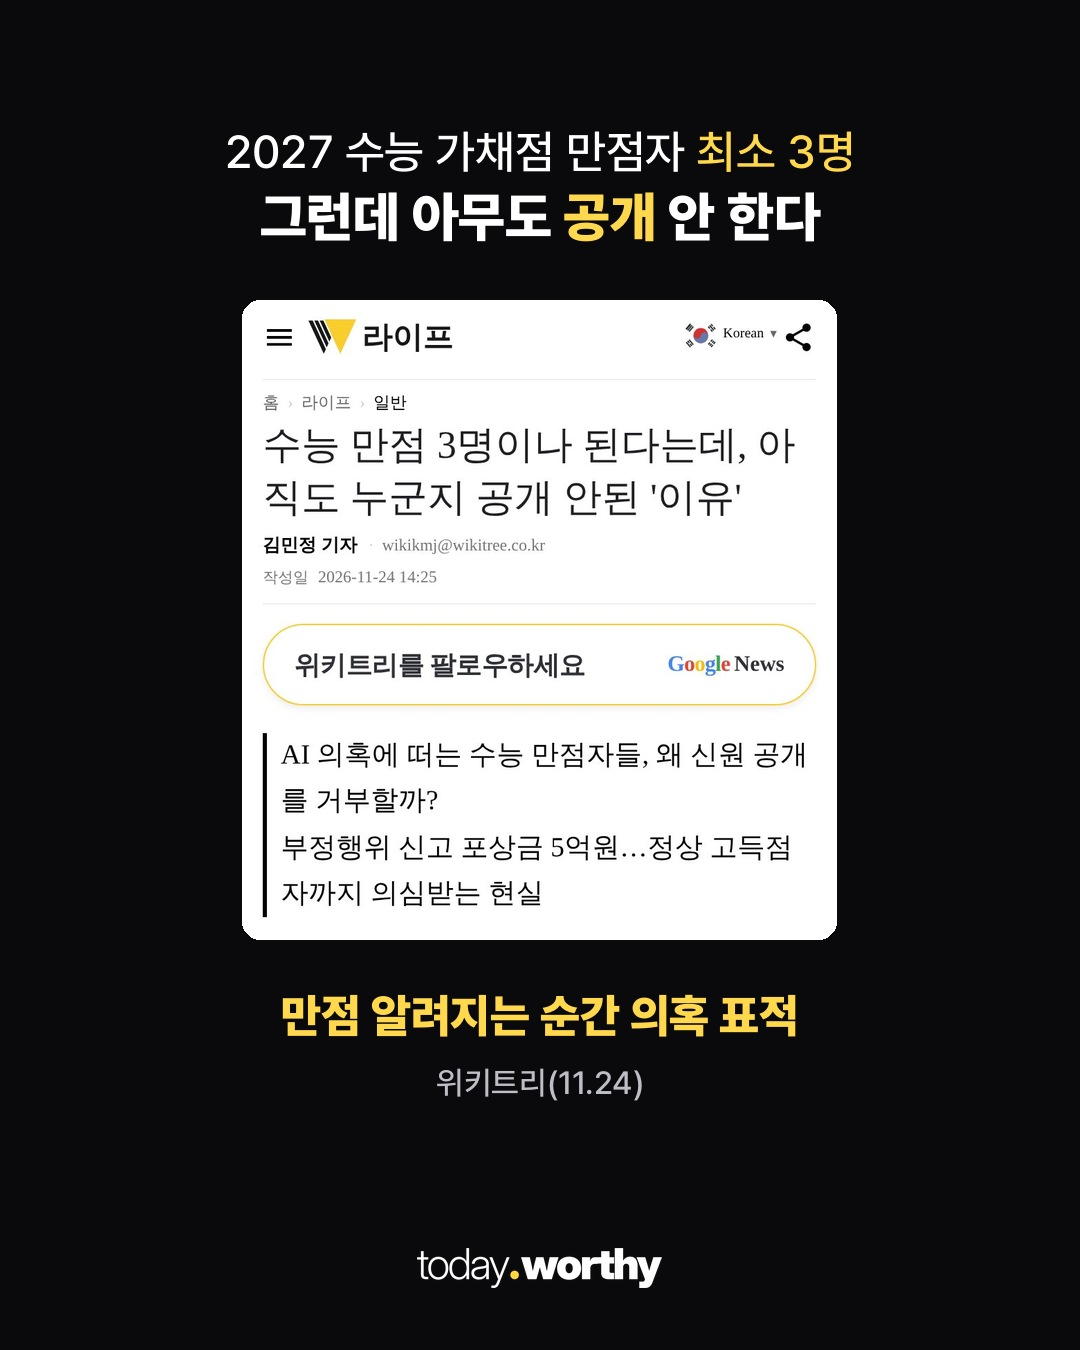
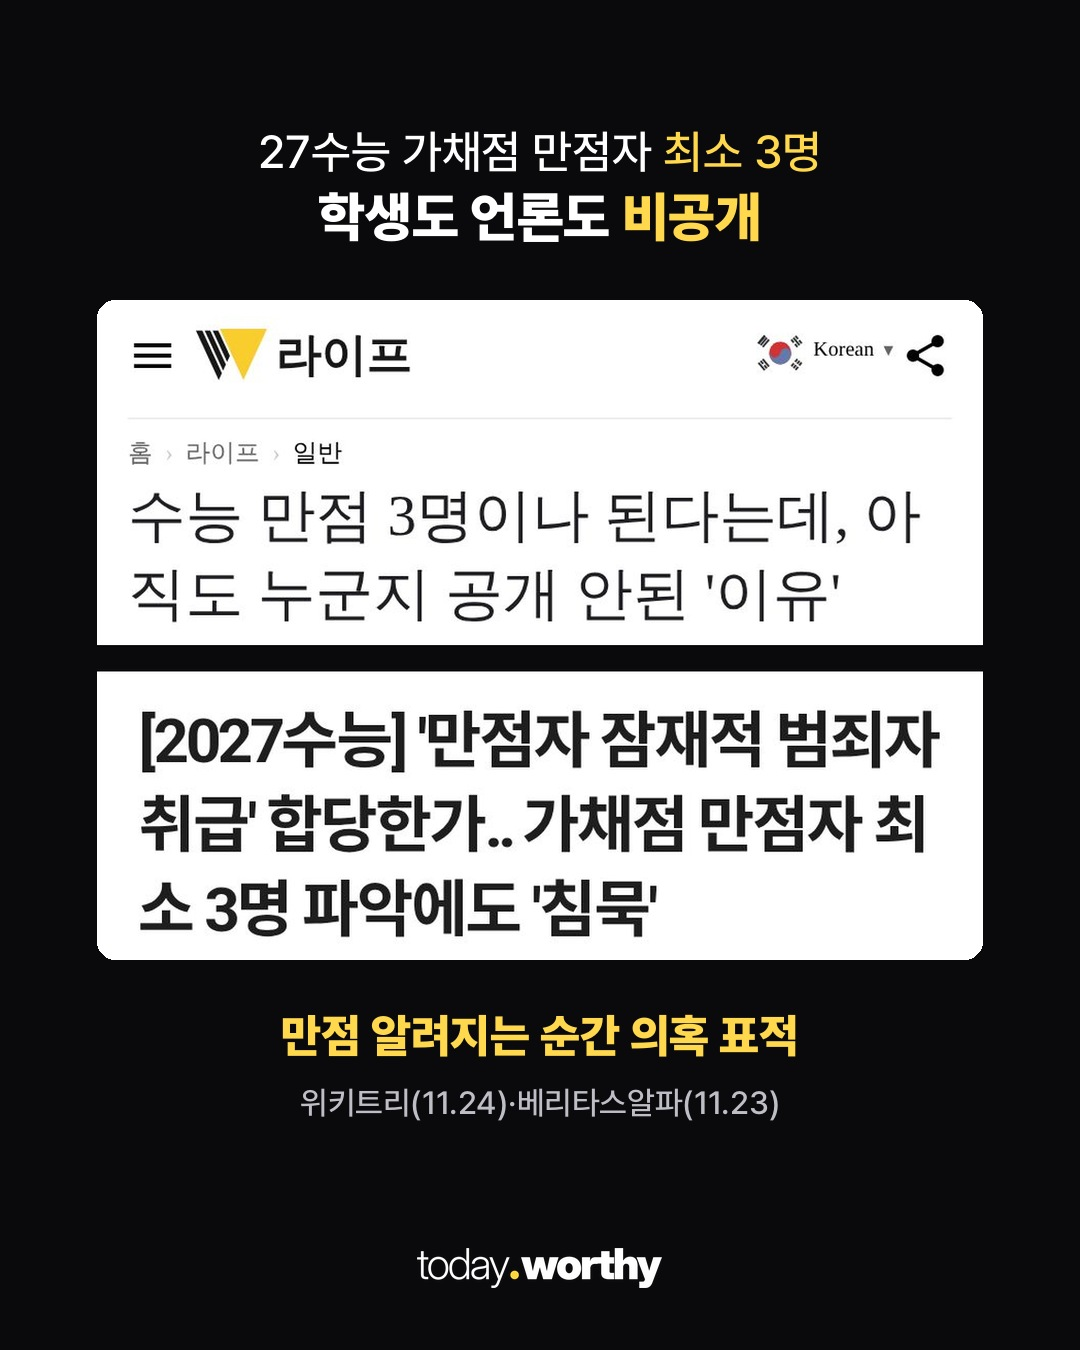
manual: 수능 만점자 본문 캡처 정리·합침(렌더만)

Changed region(s): [[0.0917, 0.2178, 0.9167, 0.84], [0.2139, 0.0933, 0.7944, 0.1867], [0.6417, 0.2178, 0.6722, 0.28]]

diff --git a/media/20261125-mjhide/build_cards.py b/media/20261125-mjhide/build_cards.py
@@ -67,10 +67,13 @@ def panel(rows, h=640, gap=None):
 
 def cap(src, box, h):
     im = op(src).crop(box); return im.resize((round(im.width * h / im.height), h), Image.LANCZOS) if im.width * h / im.height <= 940 else im.resize((940, round(im.height * 940 / im.width)), Image.LANCZOS)
-frame(("2027 수능 가채점 만점자 '최소 3명'", "그런데 아무도 '공개' 안 한다"), cap("wiki.jpg", (0, 0, 860, 925), 640),
-      "만점 알려지는 순간 '의혹' 표적", "위키트리(11.24)").save(O / "c02.jpg", quality=93)
-frame(("입시 매체도 올해는 '비공개'", "\"만점자 '잠재적 범죄자' 취급\""), cap("veritas.jpg", (0, 460, 860, 1000), 540),
-      "매년 하던 '출신고·인터뷰' 보도 중단", "베리타스알파(11.23)").save(O / "c03.jpg", quality=93)
+# 2026.11.25 사용자 지시: 캡처 군더더기(팔로우 버튼·요약·경로·기자줄) 빼고 두 장 한 장으로
+w1 = op("wiki.jpg").crop((0, 0, 860, 335)); v1 = op("veritas.jpg").crop((0, 600, 860, 880))
+w1 = w1.resize((940, round(w1.height * 940 / 860)), Image.LANCZOS); v1 = v1.resize((940, round(v1.height * 940 / 860)), Image.LANCZOS)
+stack = Image.new("RGB", (940, w1.height + 28 + v1.height), (10, 10, 12)); stack.paste(w1, (0, 0)); stack.paste(v1, (0, w1.height + 28))
+if stack.height > 660: stack = stack.resize((round(stack.width * 660 / stack.height), 660), Image.LANCZOS)
+frame(("27수능 가채점 만점자 '최소 3명'", "학생도 언론도 '비공개'"), stack,
+      "만점 알려지는 순간 '의혹' 표적", "위키트리(11.24)·베리타스알파(11.23)").save(O / "c02.jpg", quality=93)
 frame(("시험 전엔 안경·단추 검사", "시험 뒤엔 1년 전 '시험지'까지"), cap("veritas.jpg", (0, 3000, 860, 3950), 640),
       "성적 밝히는 순간 '나도 의심'받는다", "베리타스알파(11.23)").save(O / "c04.jpg", quality=93)
 # 2026.11.25 사용자 지시: 표지는 제미나이 AI 생성 사진(가상 인물) — 'AI 생성 이미지' 작게 표시
